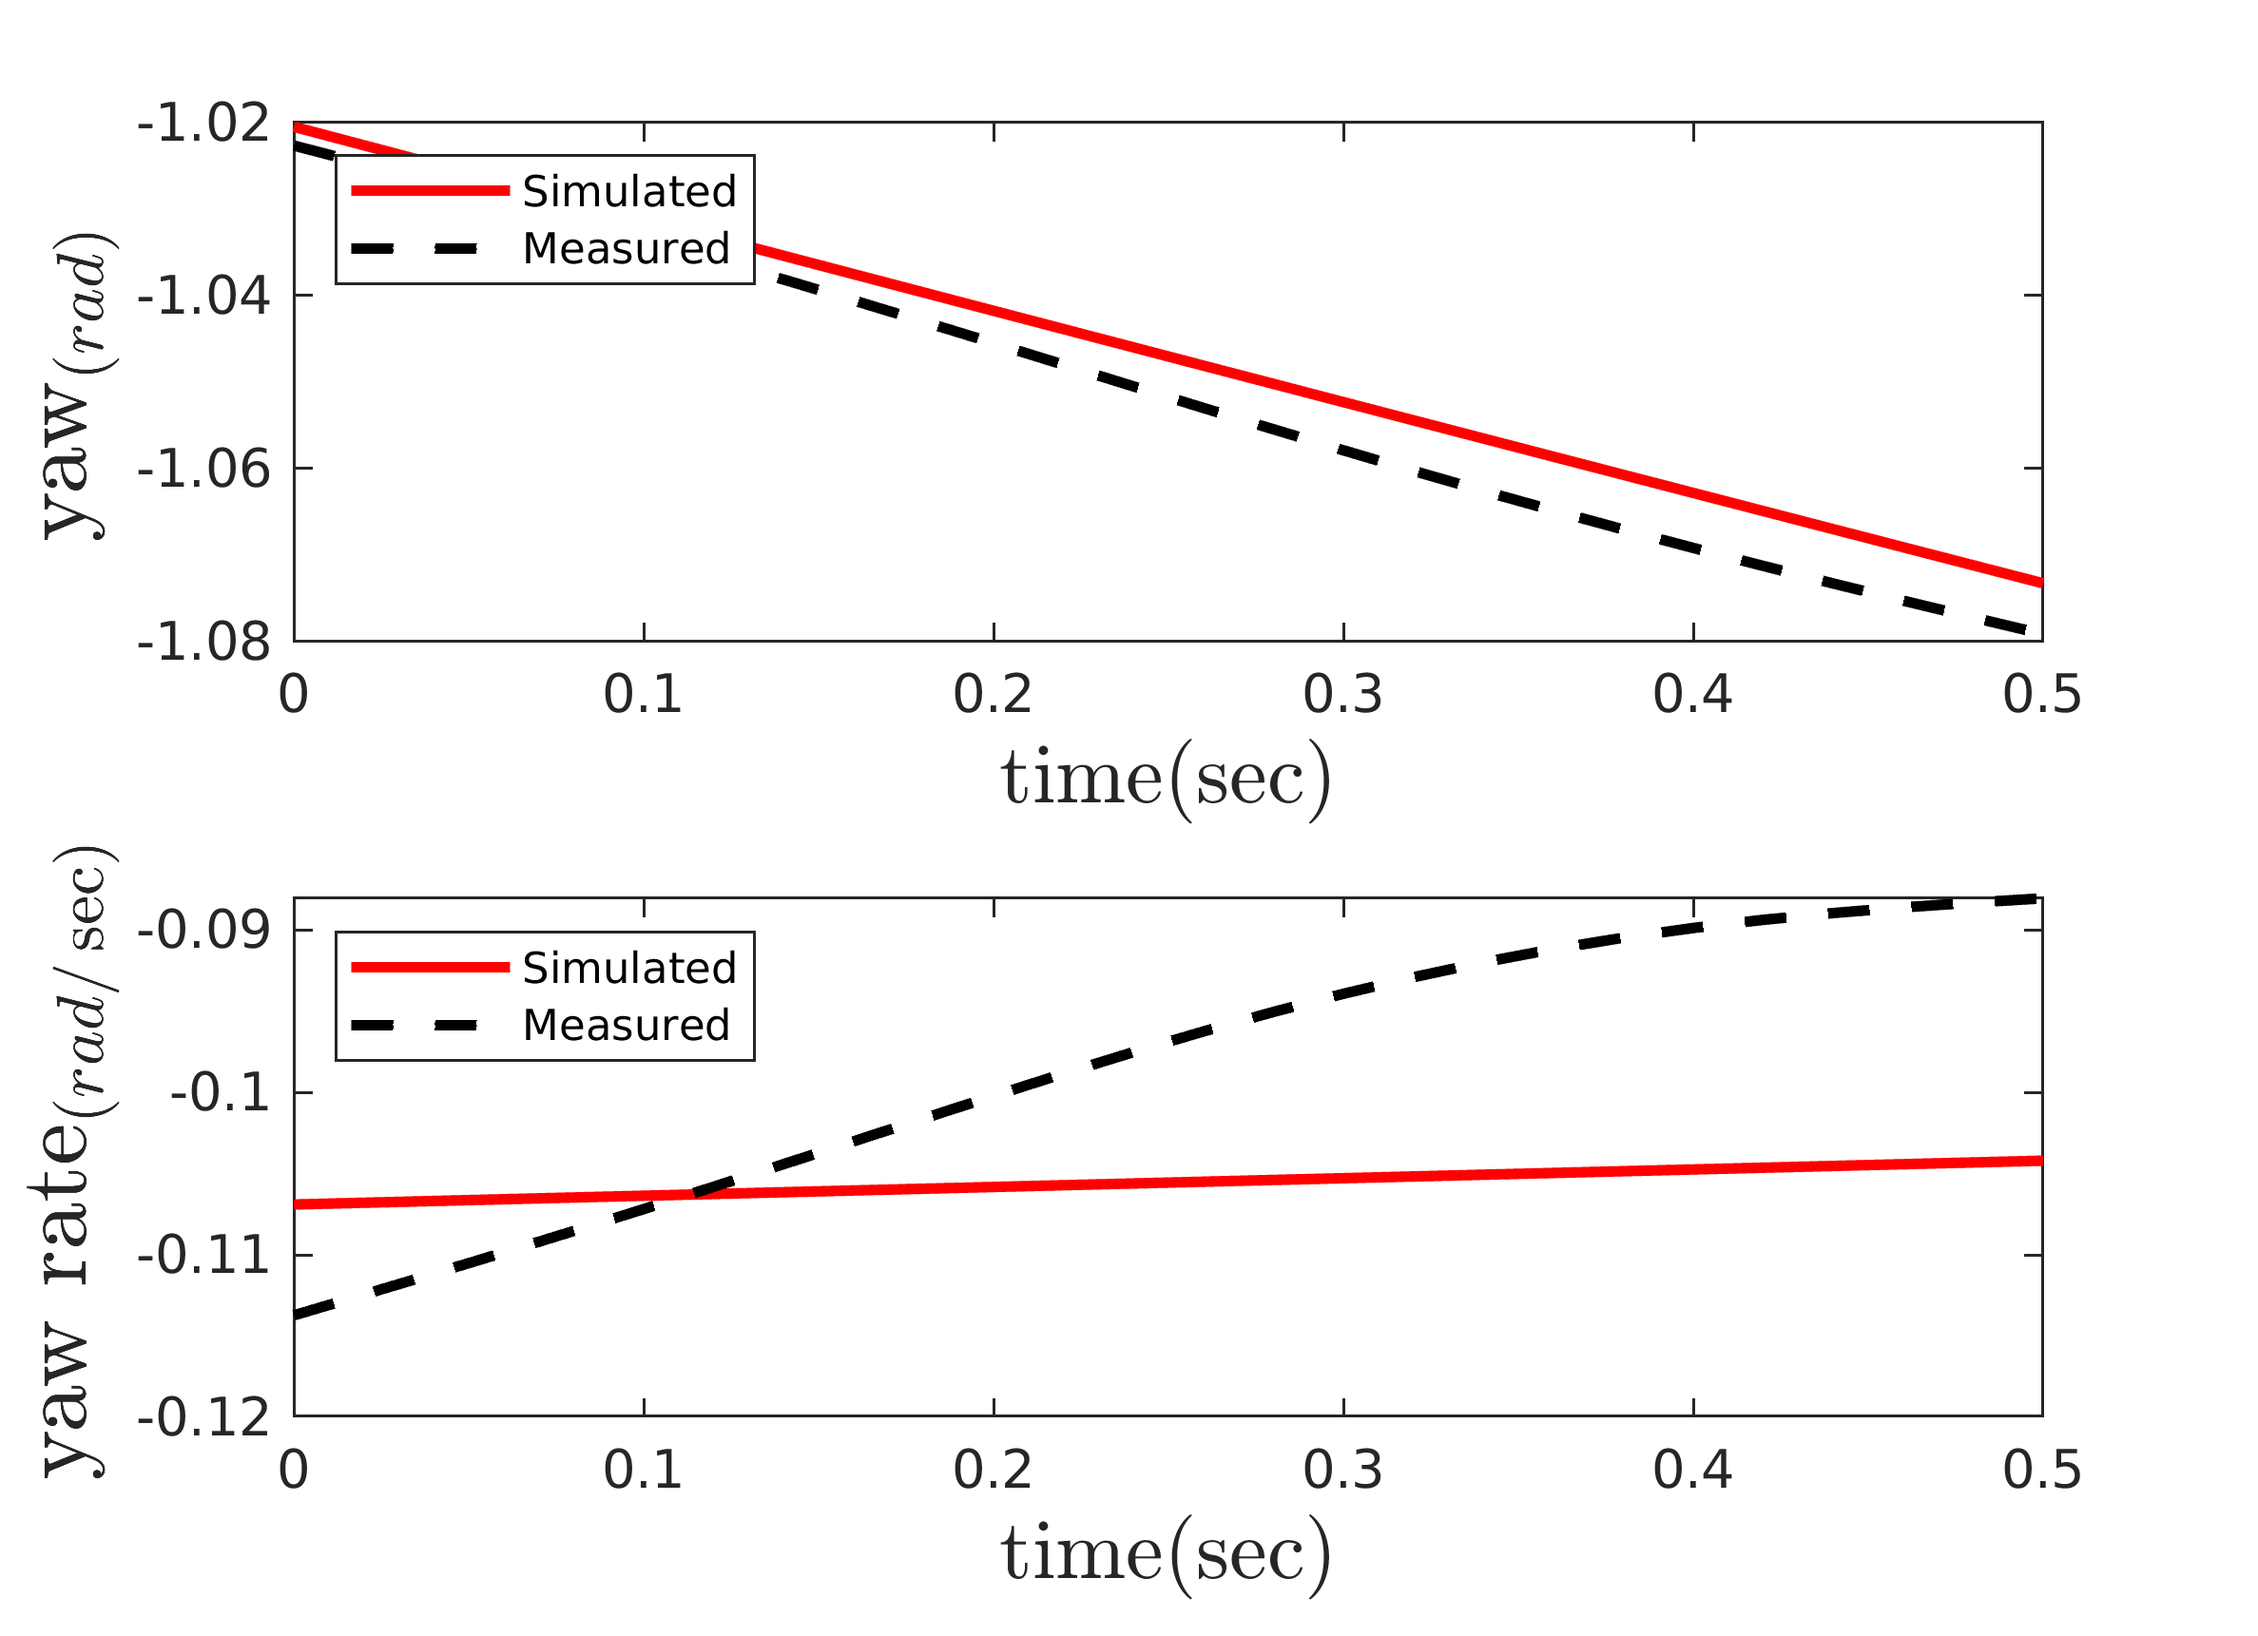
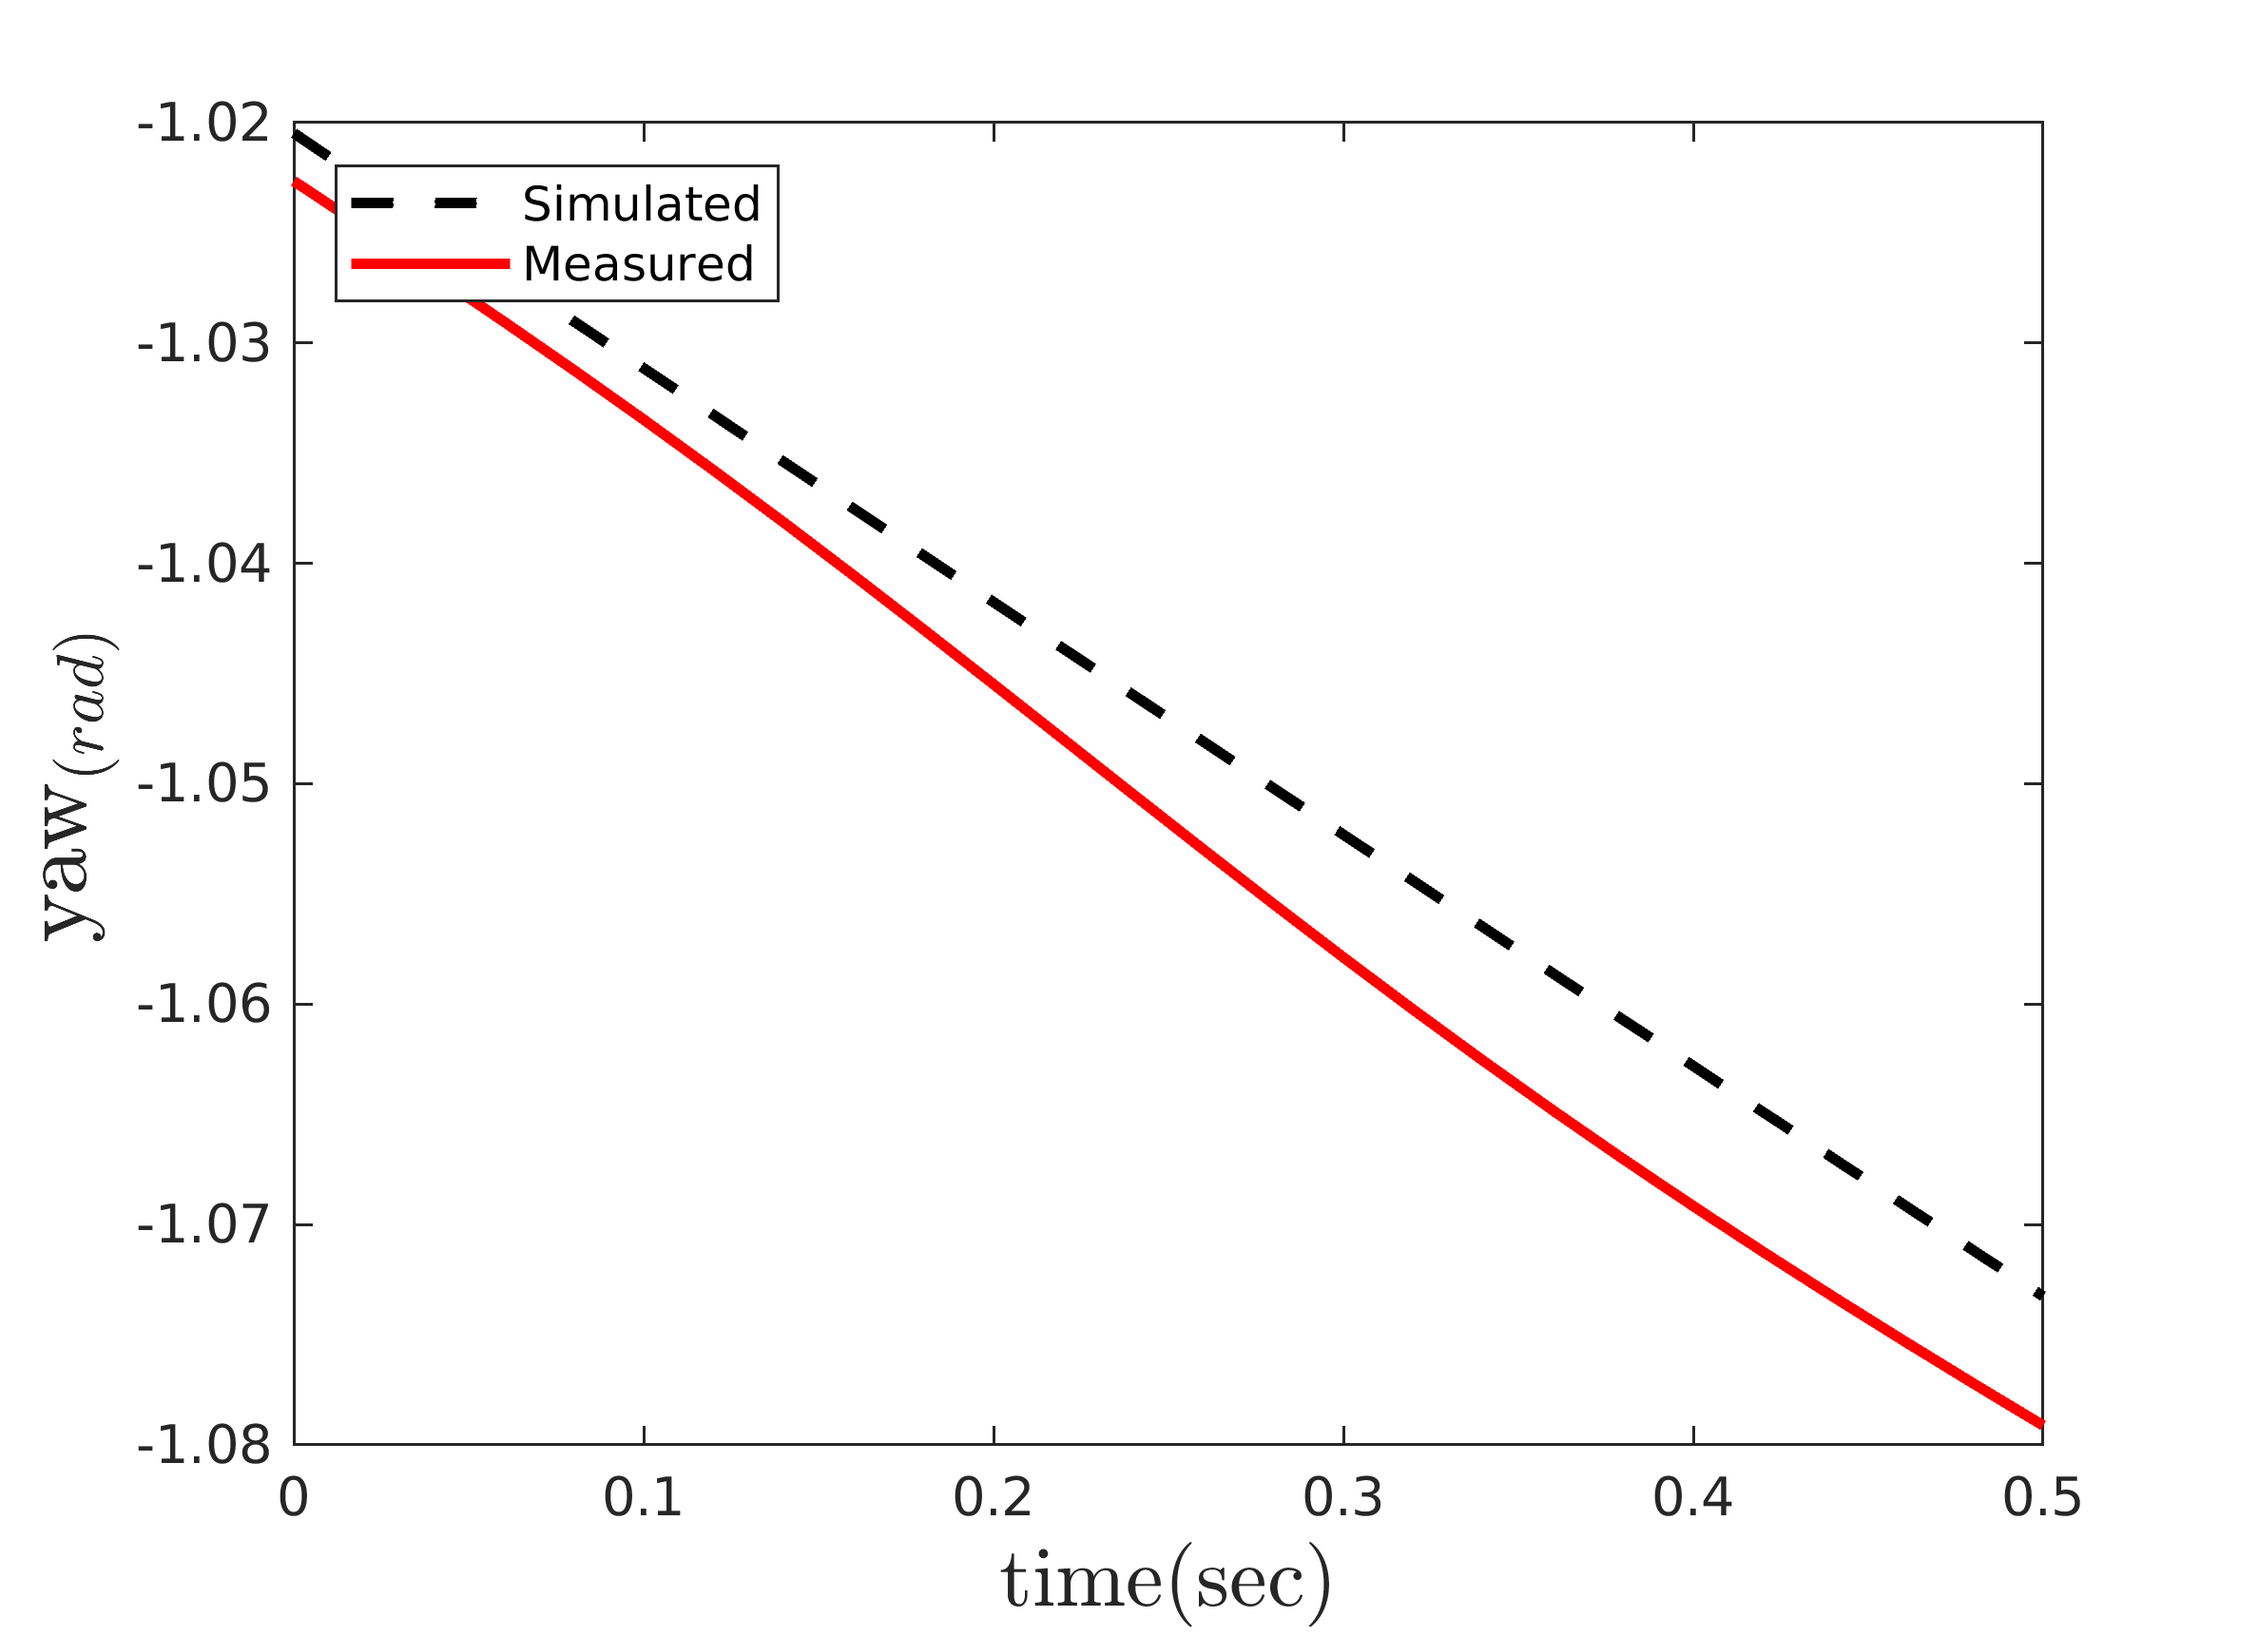
delete rate and change me and sim line for yaw

diff --git a/Code/Simulink/Quadcopter/RCP/OpenLoop/Yaw/parameter_estimation/result.m b/Code/Simulink/Quadcopter/RCP/OpenLoop/Yaw/parameter_estimation/result.m
@@ -2,44 +2,44 @@
 load_data;
 load('result.mat');
 %% scenario I
-subplot(2,1,1);
+% subplot(2,1,1);
 % yaw
-plot(time, out.scenario_I(:, 1), 'r', 'linewidth', 2);
+plot(time, out.scenario_I(:, 1), 'k--', 'linewidth', 2);
 hold on;
-plot(time, data_I(:, 1), 'k--', 'linewidth', 2);
+plot(time, data_I(:, 1), 'r', 'linewidth', 2);
 hold off;
 legend('Simulated', 'Measured', 'Location','northwest');
 xlabel('time($\sec)$', 'interpreter', 'latex', 'FontSize', 16);
 ylabel('yaw$_{(rad)}$', 'interpreter', 'latex', 'FontSize', 18);
 % yaw rate
-subplot(2,1,2); 
-plot(time, out.scenario_I(:, 2), 'r', 'linewidth', 2);
-hold on;
-plot(time, data_I(:, 2), 'k--', 'linewidth', 2);
-legend('Simulated', 'Measured', 'Location','northwest');
-xlabel('time($\sec)$', 'interpreter', 'latex', 'FontSize', 16);
-ylabel('yaw rate$_{(rad/\sec)}$', 'interpreter', 'latex', 'FontSize', 18);
-hold off;
+% subplot(2,1,2); 
+% plot(time, out.scenario_I(:, 2), 'k--', 'linewidth', 2);
+% hold on;
+% plot(time, data_I(:, 2), 'r', 'linewidth', 2);
+% legend('Simulated', 'Measured', 'Location','northwest');
+% xlabel('time($\sec)$', 'interpreter', 'latex', 'FontSize', 16);
+% ylabel('yaw rate$_{(rad/\sec)}$', 'interpreter', 'latex', 'FontSize', 18);
+% hold off;
 print('../../../../../../../Figures/RCP/yaw_parameter_estimation/RCP_yaw_S1.png',...
     '-dpng','-r400');
 %% scenario II
-subplot(2,1,1);
+% subplot(2,1,1);
 % yaw
-plot(time, out.scenario_II(:, 1), 'r', 'linewidth', 2);
+plot(time, out.scenario_II(:, 1), 'k--', 'linewidth', 2);
 hold on;
-plot(time, data_II(:, 1), 'k--', 'linewidth', 2);
+plot(time, data_II(:, 1), 'r', 'linewidth', 2);
 hold off;
 legend('Simulated', 'Measured', 'Location','northwest');
 xlabel('time($\sec)$', 'interpreter', 'latex', 'FontSize', 16);
 ylabel('yaw$_{(rad)}$', 'interpreter', 'latex', 'FontSize', 18);
 % yaw rate
-subplot(2,1,2); 
-plot(time, out.scenario_II(:, 2), 'r', 'linewidth', 2);
-hold on;
-plot(time, data_II(:, 2), 'k--', 'linewidth', 2);
-legend('Simulated', 'Measured', 'Location','northwest');
-xlabel('time($\sec)$', 'interpreter', 'latex', 'FontSize', 16);
-ylabel('yaw rate$_{(rad/\sec)}$', 'interpreter', 'latex', 'FontSize', 18);
-hold off;
+% subplot(2,1,2); 
+% plot(time, out.scenario_II(:, 2), 'k--', 'linewidth', 2);
+% hold on;
+% plot(time, data_II(:, 2), 'r', 'linewidth', 2);
+% legend('Simulated', 'Measured', 'Location','northwest');
+% xlabel('time($\sec)$', 'interpreter', 'latex', 'FontSize', 16);
+% ylabel('yaw rate$_{(rad/\sec)}$', 'interpreter', 'latex', 'FontSize', 18);
+% hold off;
 print('../../../../../../../Figures/RCP/yaw_parameter_estimation/RCP_yaw_S2.png',...
     '-dpng','-r400');
